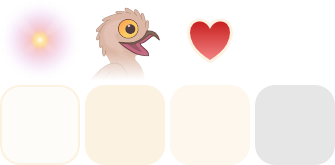
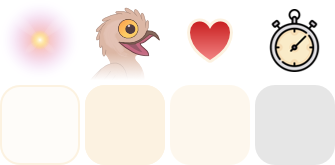
Add timer

Changed region(s): [[0.806, 0.0303, 0.9552, 0.4545]]

diff --git a/SPW/LevelHeader.cpp b/SPW/LevelHeader.cpp
@@ -74,7 +74,30 @@ LevelHeader::LevelHeader(LevelScene &scene):
     m_heartCount->GetLocalRect().anchorMax.Set(0.0f, 0.0f);
     m_heartCount->GetLocalRect().offsetMin.Set(currX, currY);
     m_heartCount->GetLocalRect().offsetMax.Set(currX + numW, currY + imgH);
-    m_heartCount->SetParent(this);    
+    m_heartCount->SetParent(this);
+
+    currX += imgW + sep;
+
+    // Image du nombre de coeurs
+    part = atlas->GetPart("Timer");
+    AssertNew(part);
+    Image *timerImage = new Image(scene, part, 0);
+    timerImage->GetLocalRect().anchorMin.Set(0.0f, 0.0f);
+    timerImage->GetLocalRect().anchorMax.Set(0.0f, 0.0f);
+    timerImage->GetLocalRect().offsetMin.Set(currX, currY);
+    timerImage->GetLocalRect().offsetMax.Set(currX + imgW, currY + imgH);
+    timerImage->SetParent(this);
+    
+    currX += imgW + sep;
+
+    // Timer
+    m_timer = new Text(scene, "0.0", font, color);
+    m_timer->SetAnchor(RE_Anchor::WEST);
+    m_timer->GetLocalRect().anchorMin.Set(0.0f, 0.0f);
+    m_timer->GetLocalRect().anchorMax.Set(0.0f, 0.0f);
+    m_timer->GetLocalRect().offsetMin.Set(currX, currY);
+    m_timer->GetLocalRect().offsetMax.Set(currX + numW, currY + imgH);
+    m_timer->SetParent(this);    
 }
 
 void LevelHeader::Update()
@@ -82,4 +105,5 @@ void LevelHeader::Update()
     Player *player = m_levelScene.GetPlayer();
     m_fireflyCount->SetString(std::to_string(player->GetFireflyCount()));
     m_heartCount->SetString(std::to_string(player->GetHeartCount()));
-}
+    std::string timer = std::to_string(m_scene.GetTime().GetElapsed() - m_scene.GetSpawnTime());
+    m_timer->SetString(timer.substr(0, timer.find(".")+3));}

diff --git a/SPW/Scene.h b/SPW/Scene.h
@@ -106,10 +106,14 @@ public:
 
     void Quit();
 
+    void SetResetTimer(bool value);
+
     float GetAlpha();
 
     float GetFixedTimeStep();
 
+    float GetSpawnTime();
+    
     Camera *GetActiveCamera();
 
     const RE_Timer &GetTime() const;
@@ -163,6 +167,9 @@ protected:
     /// @brief Paramètre d'interpolation pour les positions des corps physiques.
     float m_alpha;
 
+    /// @brief Paramètre du temps du dernier spawn
+    float m_spawnTime;
+
     /// @brief Booléen indiquant s'il faut afficher les "gizmos" (debug).
     bool m_drawGizmos;
 
@@ -179,6 +186,8 @@ protected:
 
     /// @brief Booléen indiquant s'il faut quitter la scène.
     bool m_quit;
+
+    bool m_resetTimer;
 
     SceneListener m_collisionListener;
 };
@@ -203,8 +212,15 @@ inline PE_World &Scene::GetWorld()
     return m_world;
 }
 
+inline void Scene::SetResetTimer(bool value)
+{
+    m_resetTimer = value;
+}
+
+
 inline void Scene::Respawn()
 {
+    if (m_resetTimer) m_spawnTime = GetTime().GetElapsed();
     m_respawn = true;
 }
 
@@ -221,6 +237,11 @@ inline float Scene::GetAlpha()
 inline float Scene::GetFixedTimeStep()
 {
     return m_timeStep;
+}
+
+inline float Scene::GetSpawnTime()
+{
+    return m_spawnTime;
 }
 
 inline Camera *Scene::GetActiveCamera()

diff --git a/SPW/PauseMenu.cpp b/SPW/PauseMenu.cpp
@@ -80,7 +80,7 @@ PauseMenu::PauseMenu(LevelScene &scene) :
     SDL_Color colorDown = assets.GetColor(ColorID::NORMAL);
     font = assets.GetFont(FontID::NORMAL);
 
-    const std::string texts[3] = { u8"Continuer", u8"Recommencer", u8"Quitter" };
+    const std::string texts[3] = { u8"Continuer", u8"Revenir au checkpoint", u8"Quitter" };
     ButtonListener *listener[3] = { 0 };
     listener[0] = new PauseMenuNS::ContinueListener(scene);
     listener[1] = new PauseMenuNS::RestartListener(scene);

diff --git a/SPW/LevelScene.cpp b/SPW/LevelScene.cpp
@@ -26,6 +26,9 @@ LevelScene::LevelScene(SDL_Renderer *renderer, RE_Timer &mainTime, const LevelDa
     LevelParser parser(level.path);
     parser.InitScene(*this);
 
+    this->m_spawnTime = this->GetTime().GetElapsed();
+    this->SetResetTimer(true);
+
     // Canvas
     m_canvas = new LevelCanvas(*this);
 

diff --git a/SPW/Checkpoint.cpp b/SPW/Checkpoint.cpp
@@ -92,6 +92,7 @@ void Checkpoint::OnCollisionEnter(GameCollision &collision)
         PE_Vec2 position = collision.gameBody->GetPosition();
         position.x -= 1.0f;
         player->SetStartPosition(position);
+        levelScene->SetResetTimer(false);
         m_isActive = false;
     }
 }

diff --git a/SPW/LevelHeader.h b/SPW/LevelHeader.h
@@ -18,4 +18,5 @@ private:
     LevelScene &m_levelScene;
     Text *m_fireflyCount;
     Text *m_heartCount;
+    Text *m_timer;
 };
